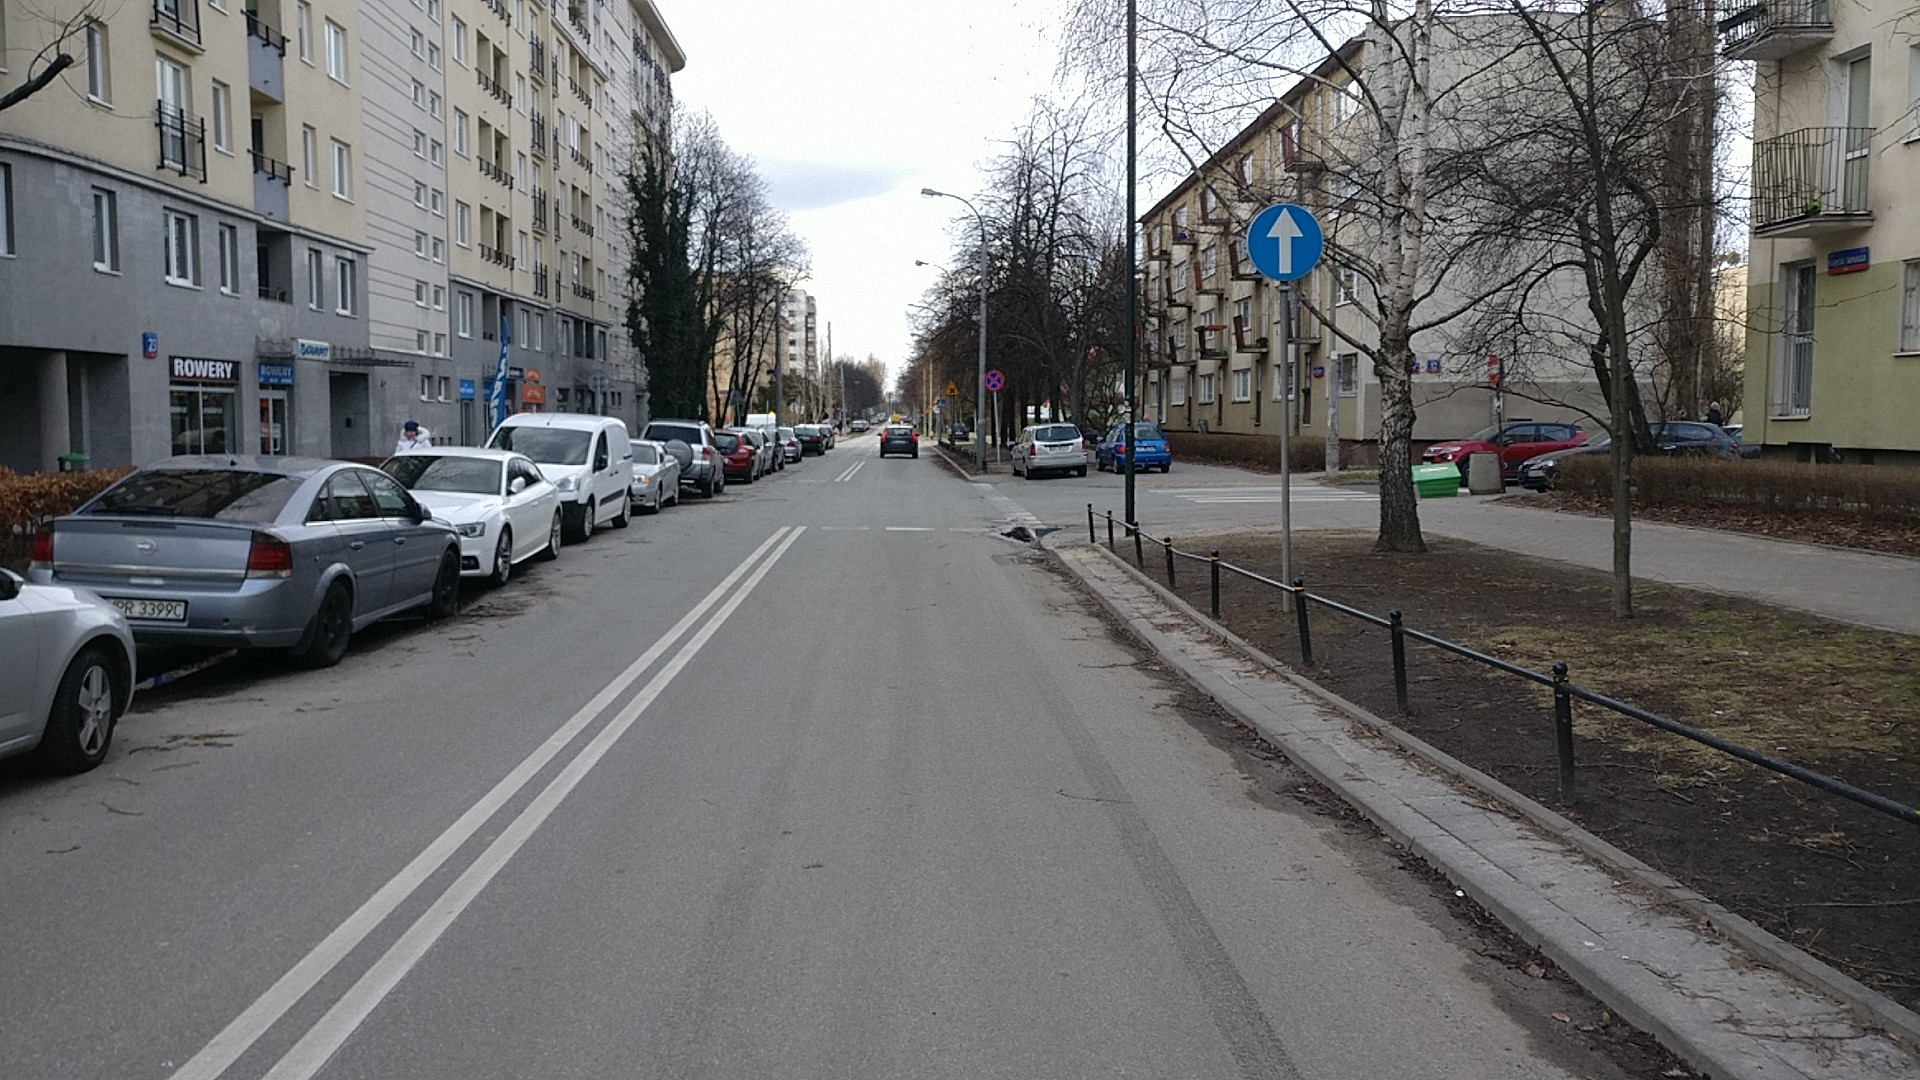
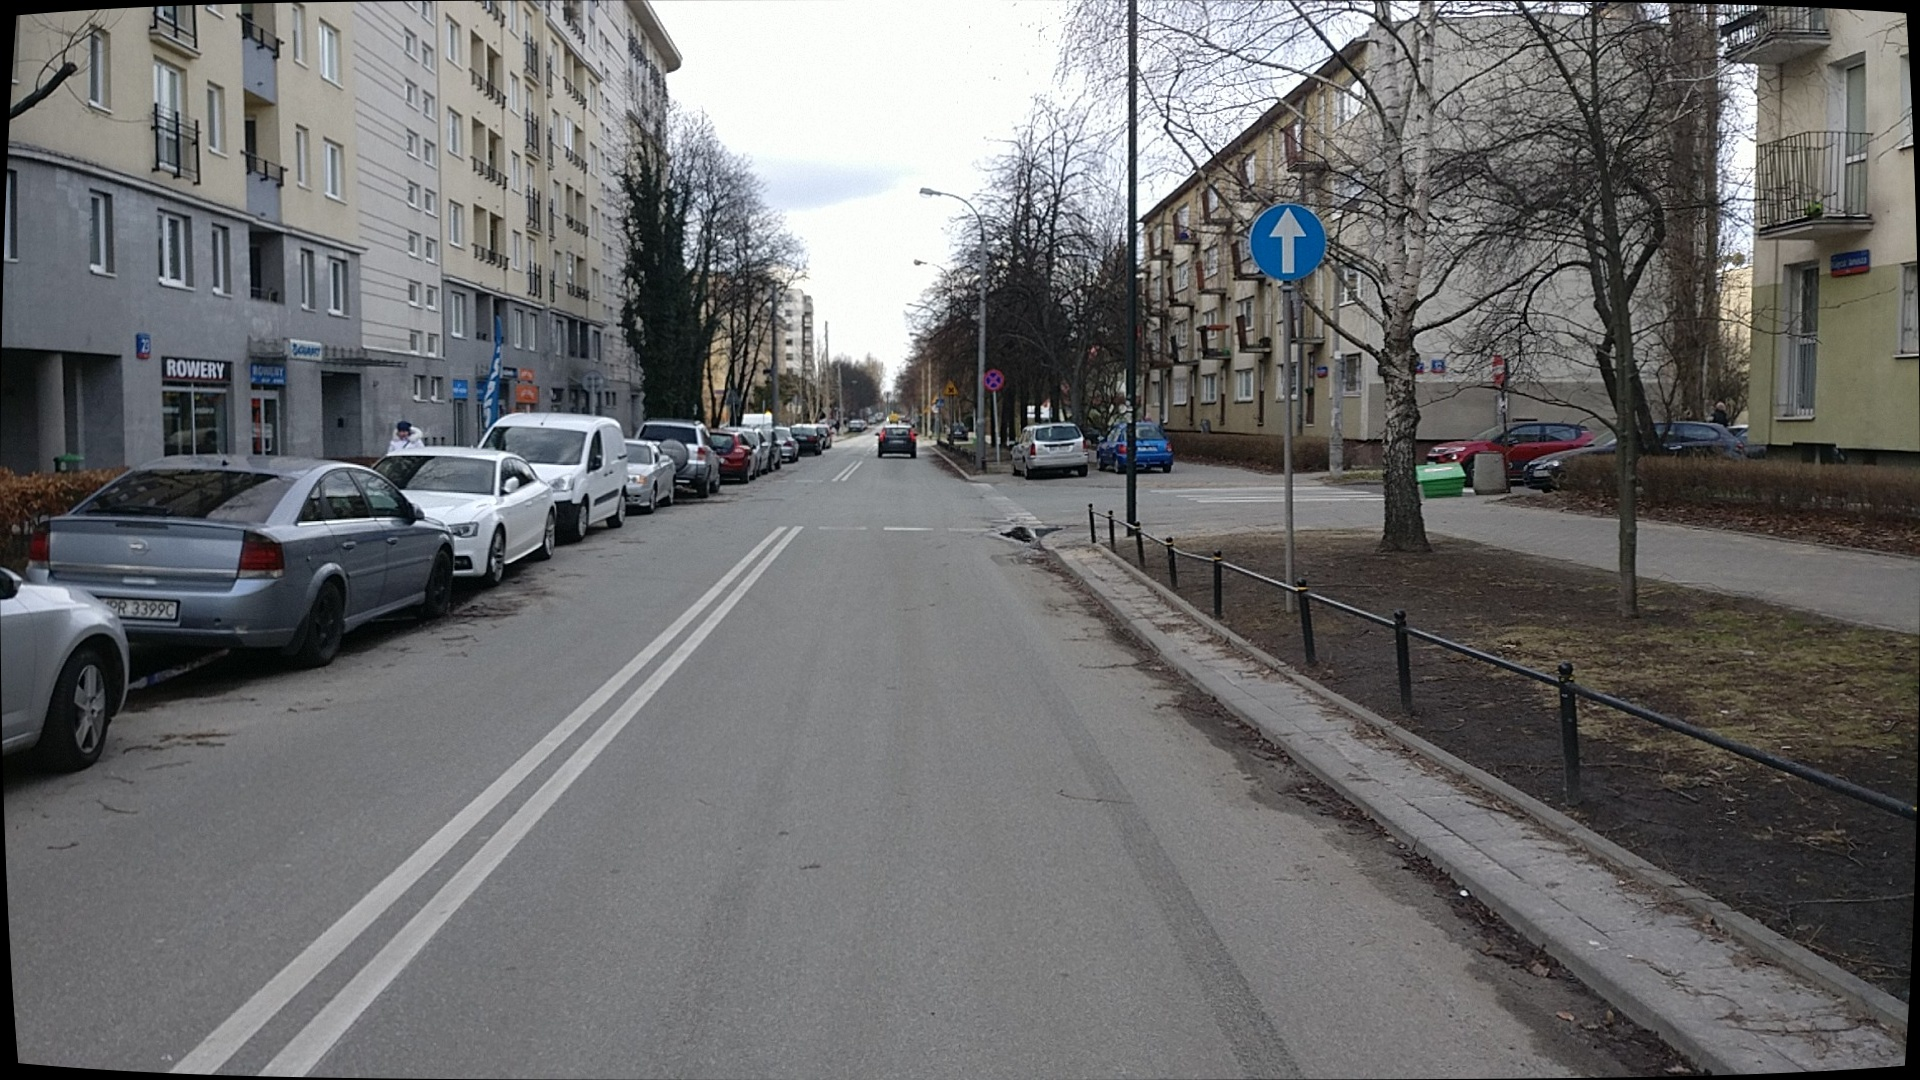
Image undistortion with roi cropping

diff --git a/Camera.py b/Camera.py
@@ -1,11 +1,14 @@
 import cv2
 import numpy as np
 import glob
+import os
 
 class Camera:
 
     cameraMatrix = []
+    cameraOptMatrix = []
     cameraDistCoeffs = []
+    cameraCalibROI = []
 
     calibChessboardPattern = (6, 6)
     calibImgsPath = glob.glob("./ccalib-test-images-2/*")
@@ -19,28 +22,37 @@ class Camera:
         for image in self.calibImgsPath:
             calibImg = cv2.imread(image)
             imH, imW = calibImg.shape[:2]
-            imgReSize = (int(imW), int(imH))
-            calibImg = cv2.resize(calibImg, imgReSize)
+            imgSize = (imW, imH)
+            # imgReSize = (int(imW), int(imH))
+            #calibImg = cv2.resize(calibImg, imgSize)
             ret, corners = cv2.findChessboardCorners(calibImg, self.calibChessboardPattern)
             cv2.drawChessboardCorners(calibImg, self.calibChessboardPattern, corners, ret)
             if ret:
                 imgPoints.append(corners)
                 objPoints.append(objPt)
+                print(self.calibImgsPath.index(image), ": ", os.path.basename(image))
 
-        retval, cameraMatrix, distCoeffs, rvecs, tvecs = cv2.calibrateCamera(objPoints, imgPoints, imgReSize, None,
-                                                                             None)
+        retval, cameraMatrix, distCoeffs, rvecs, tvecs = cv2.calibrateCamera(objPoints, imgPoints, imgSize, None, None)
 
         if retval:
             optAlpha = 1
-            optCameraMatrix, roi = cv2.getOptimalNewCameraMatrix(cameraMatrix, distCoeffs, imgReSize, optAlpha)
+            optCameraMatrix, roi = cv2.getOptimalNewCameraMatrix(cameraMatrix, distCoeffs, imgSize, optAlpha)
+            np.savetxt('cameraMatrix.csv', cameraMatrix)
             np.savetxt('cameraOptMatrix.csv', optCameraMatrix)
             np.savetxt('cameraDistCoeffs.csv', distCoeffs)
             np.savetxt('cameraCalibROI.csv', roi)
 
     def loadCameraProperties(self):
         self.cameraMatrix = np.genfromtxt('cameraMatrix.csv')
+        self.cameraOptMatrix = np.genfromtxt('cameraOptMatrix.csv')
         self.cameraDistCoeffs = np.genfromtxt('cameraDistCoeffs.csv')
+        self.cameraCalibROI = np.genfromtxt('cameraCalibROI.csv')
 
     def undistortImage(self, img):
-        imgUndist = cv2.undistort(img, self.cameraMatrix, self.cameraDistCoeffs)
-        cv2.imwrite('IMG_20190311_152834_result.jpg', img)
+        imgUndist = cv2.undistort(img, self.cameraMatrix, self.cameraDistCoeffs, None, self.cameraOptMatrix)
+        cv2.imwrite('road_test_1_result.jpg', imgUndist)
+        x, y, w, h = self.cameraCalibROI
+        x, y, w, h = int(x), int(y), int(w), int(h)
+        imgUndist = imgUndist[y:y + h, x:x + w]
+        cv2.imwrite('road_test_1_result_cropped.jpg', imgUndist)
+        return imgUndist

diff --git a/Main.py b/Main.py
@@ -6,5 +6,11 @@ camera = Camera()
 
 # camera.calibrateCamera()
 camera.loadCameraProperties()
-img = cv2.imread('./IMG_20190311_152834.jpg')
-camera.undistortImage(img)
+img = cv2.imread('./road_test_1.jpg')
+imgUndist = camera.undistortImage(img)
+cv2.namedWindow("w1")
+cv2.imshow("w1", imgUndist)
+
+c = cv2.waitKey(0)
+if 'q' == chr(c & 255):
+    cv2.destroyAllWindows()
